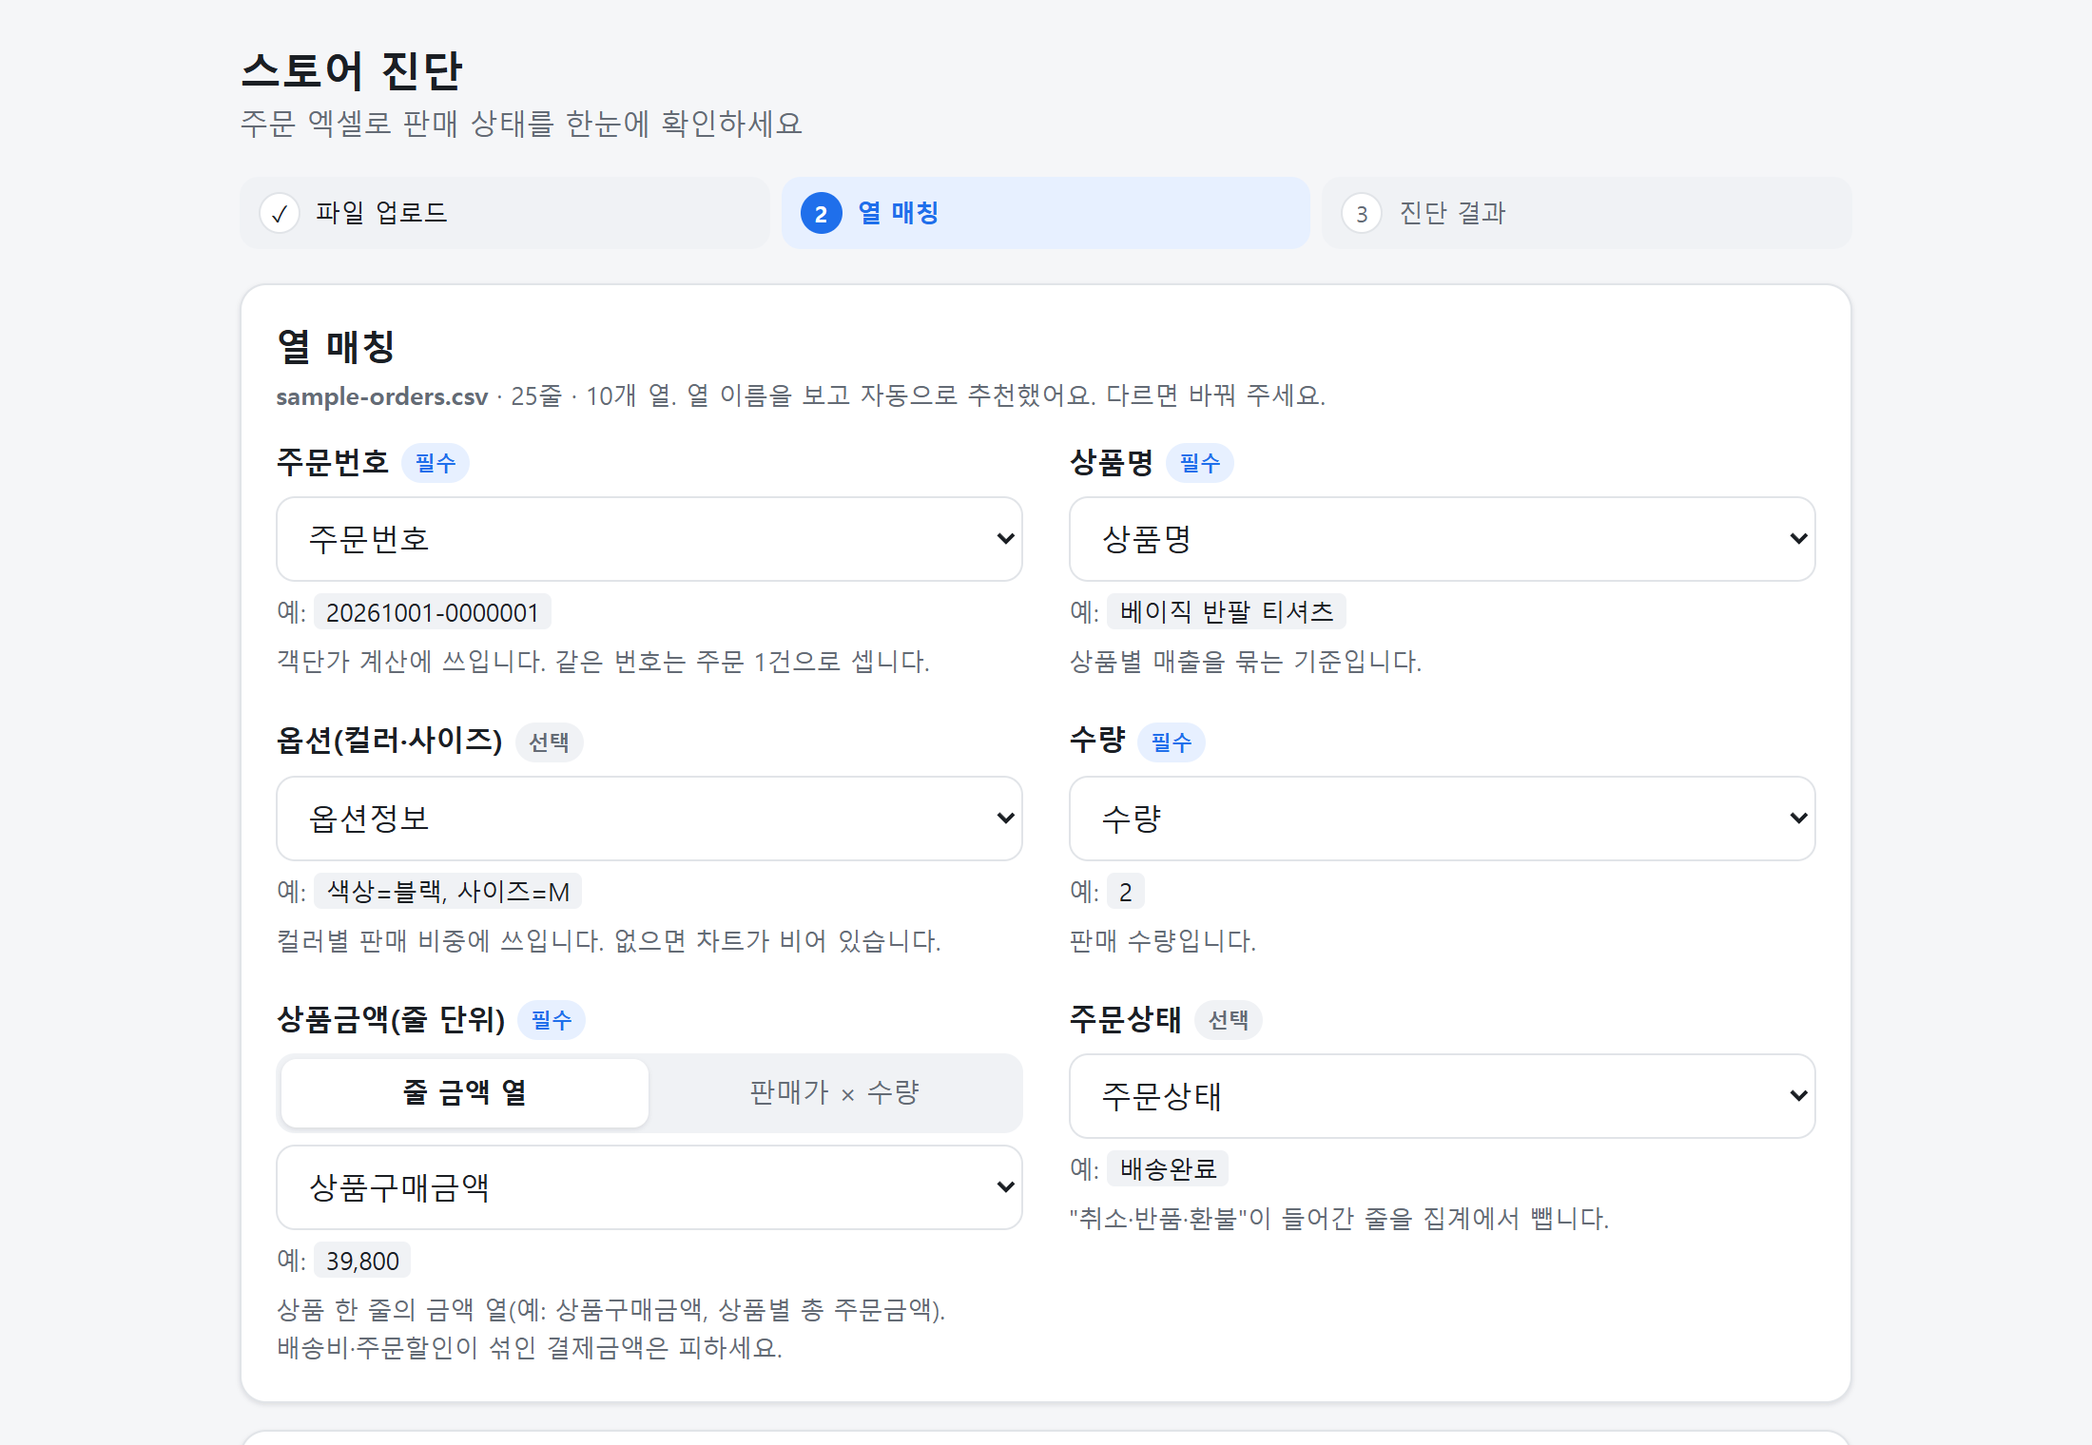
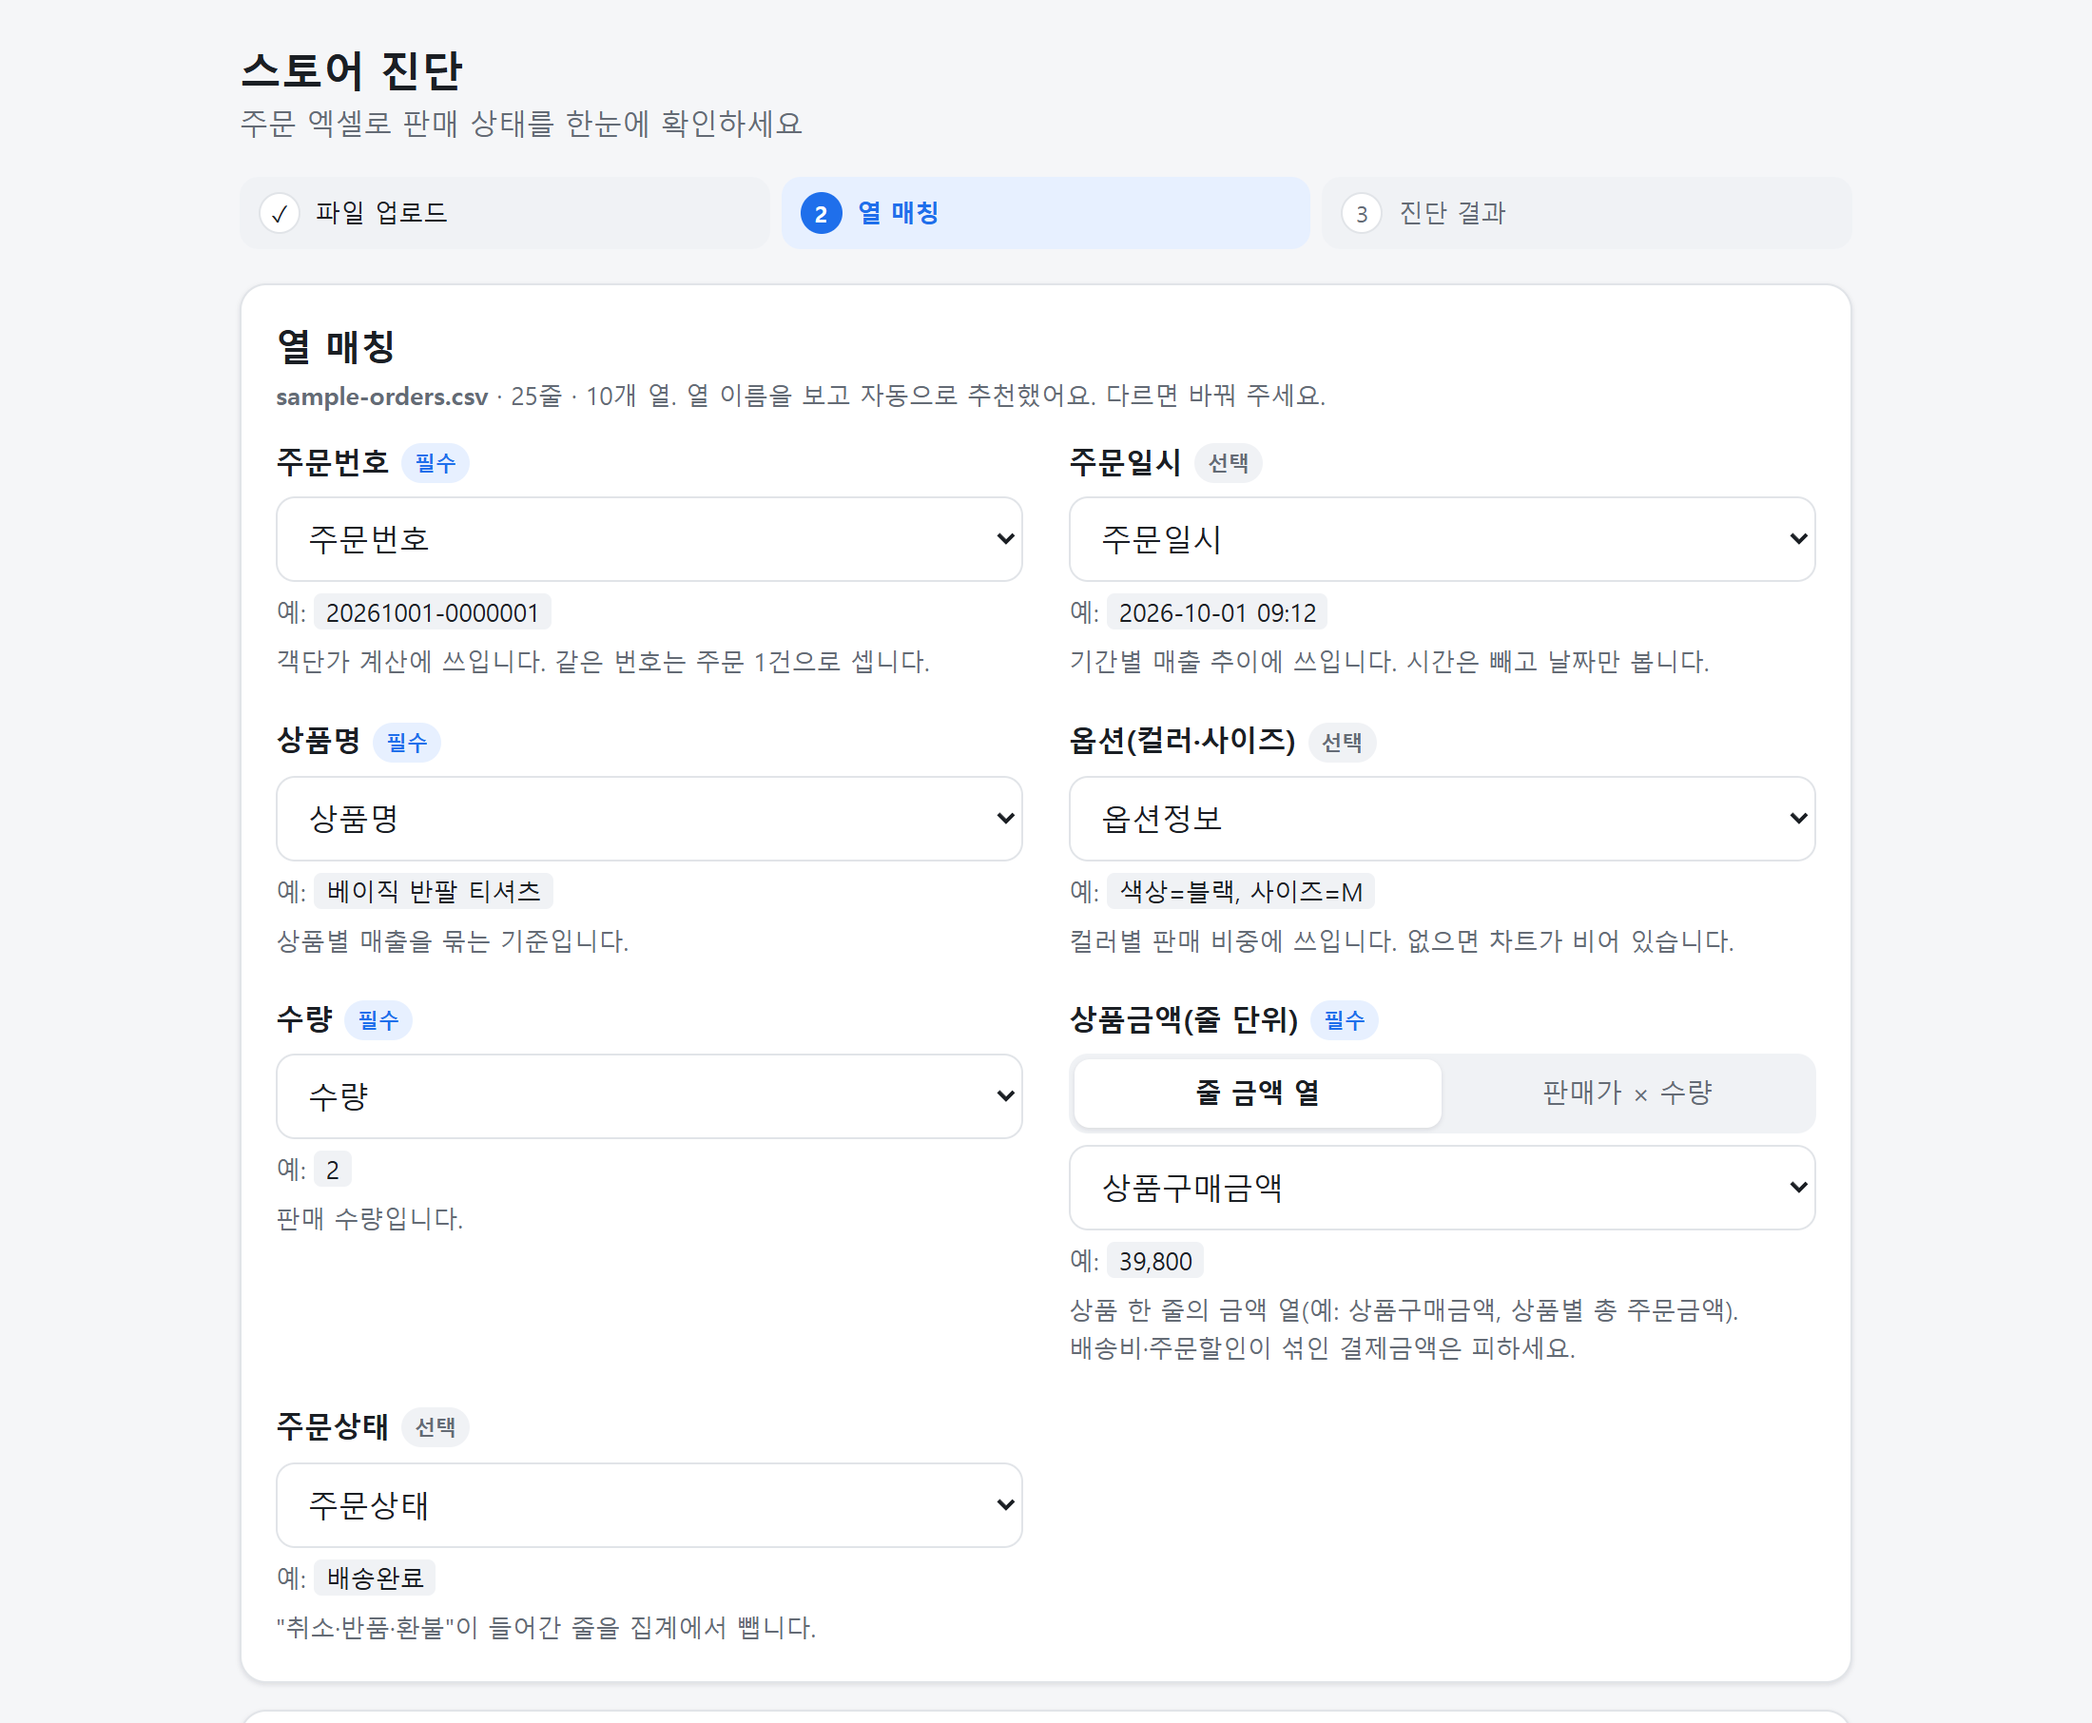
README 스크린샷 갱신 (기간별 추이 포함), 배포 복구 기록

diff --git a/WORK_STATUS.md b/WORK_STATUS.md
@@ -101,6 +101,15 @@
 - 브라우저 확인: 데스크톱·모바일(375px) 레이아웃, 툴팁 값, 주별·주문 수 전환
   - 주별 주문 수 평균이 7.5건인데 "8건"으로 반올림되던 것을 소수 한 자리로 수정
 
+### ✅ 12단계 — Vercel 자동 배포 복구 + 스크린샷 갱신 (2026-10-12)
+- 증상: 첫 Import 배포 이후 push로 시작된 배포 3건이 모두 실패 (README만 바꾼 커밋 포함)
+  - Vercel 화면: "Git information retrieval failed", 연결 설정: "GitHub fetch error - status: 403"
+  - 코드 문제 아님 (로컬 빌드·테스트 정상). Vercel ↔ GitHub 연결 권한 문제
+- 조치: 사용자가 GitHub의 Vercel 앱 권한 확인 후 Vercel에서 저장소 재연결
+- 확인: 빈 커밋 push → 자동 배포 성공, 배포 사이트에서 추이 차트·값 확인
+- README 스크린샷 다시 촬영 (열 매칭에 주문일시, 결과에 추이 차트), 모바일 추이 화면 추가 → 6장
+- 배포 실패를 빨리 알아채려면: GitHub 커밋 옆 체크 표시(Vercel 상태) 또는 Vercel 대시보드 확인
+
 ## 실행 방법
 ```
 cd store-diagnosis

diff --git a/README.md b/README.md
@@ -21,11 +21,13 @@
 <table>
   <tr>
     <th>모바일 · 요약</th>
+    <th>모바일 · 기간별 추이</th>
     <th>모바일 · 컬러별 비중</th>
   </tr>
   <tr>
-    <td align="center"><img src="docs/result-mobile.png" alt="모바일 진단 결과: 객단가, 상품 매출, 주문 수" width="300" /></td>
-    <td align="center"><img src="docs/color-mobile.png" alt="모바일 컬러별 판매 비중 도넛 차트" width="300" /></td>
+    <td align="center"><img src="docs/result-mobile.png" alt="모바일 진단 결과: 객단가, 상품 매출, 주문 수" width="250" /></td>
+    <td align="center"><img src="docs/trend-mobile.png" alt="모바일 기간별 매출 추이 막대 차트: 일별, 최고 일과 평균" width="250" /></td>
+    <td align="center"><img src="docs/color-mobile.png" alt="모바일 컬러별 판매 비중 도넛 차트" width="250" /></td>
   </tr>
 </table>
 
